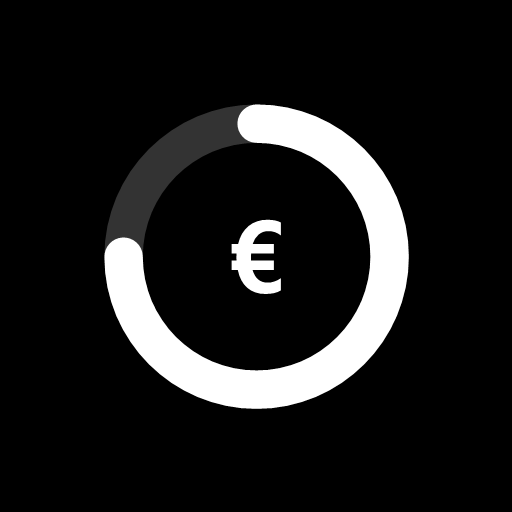
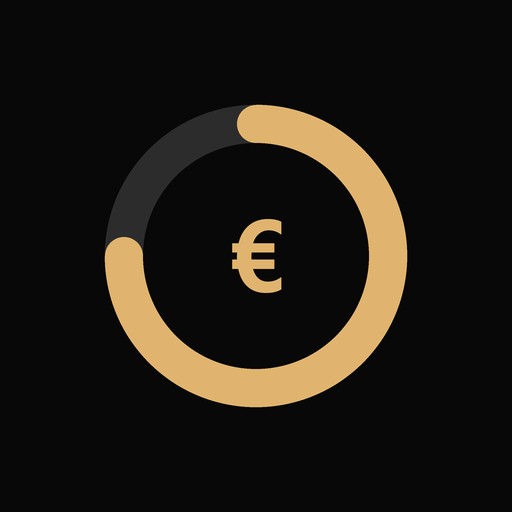
Tema negro y dorado, como el resto de apps, e icono dorado (v31)

Changed region(s): [[0.1875, 0.1875, 0.8125, 0.8125], [0.4375, 0.4062, 0.5625, 0.5938]]

diff --git a/css/styles.css b/css/styles.css
@@ -3,18 +3,19 @@
    ========================================================================== */
 
 :root {
-  --bg: #000000;
-  --card: #121212;
-  --card-2: #1f1f1f;
-  --card-3: #333333;
+  --bg: #080808;
+  --card: #0f0f0f;
+  --card-2: #1b1b1b;
+  --card-3: #2c2c2c;
   --sep: rgba(84, 84, 88, 0.55);
 
-  --text: #ffffff;
-  --text-2: #8e8e93;
-  --text-3: #636366;
+  --text: #ececec;
+  --text-2: #a8a8a8;
+  --text-3: #6b6b6b;
 
-  --accent: #ffffff;          /* interfaz: blanco sobre negro */
-  --accent-dim: rgba(255, 255, 255, 0.08);
+  --accent: #e0b46e;          /* dorado, como el resto de apps */
+  --accent-dim: rgba(224, 180, 110, 0.14);
+  --gold-text: #080808;       /* texto sobre dorado */
   --green: #32d74b;           /* solo ingresos / positivo */
   --red: #ff453a;
   --red-dim: rgba(255, 69, 58, 0.16);
@@ -32,6 +33,7 @@
 
   --font: -apple-system, BlinkMacSystemFont, "SF Pro Text", "Inter", system-ui, "Segoe UI", Roboto, sans-serif;
   --font-num: -apple-system, BlinkMacSystemFont, "SF Pro Display", "Inter", system-ui, sans-serif;
+  --serif: ui-serif, "New York", Georgia, "Times New Roman", serif;
 
   color-scheme: dark;
 }
@@ -214,7 +216,7 @@ input, select, textarea { font: inherit; color: inherit; }
   transition: color .15s;
 }
 .cat-ico { width: 40px; height: 40px; border-radius: 50%; background: var(--card-2); display: grid; place-items: center; color: var(--text); }
-.cat[aria-pressed="true"] .cat-ico { background: var(--text); color: #000; }
+.cat[aria-pressed="true"] .cat-ico { background: var(--accent); color: var(--gold-text); }
 .cat span:last-child { max-width: 100%; overflow: hidden; text-overflow: ellipsis; white-space: nowrap; padding: 0 2px; }
 .cat[aria-pressed="true"] { color: var(--text); }
 
@@ -223,7 +225,7 @@ input, select, textarea { font: inherit; color: inherit; }
   width: 100%; min-height: 52px; border-radius: var(--radius);
   font-size: 17px; font-weight: 600; background: var(--card-2);
 }
-.btn-primary { background: var(--accent); color: #000; }
+.btn-primary { background: var(--accent); color: var(--gold-text); }
 .btn-primary:disabled { background: var(--card-2); color: var(--text-3); }
 .btn-danger { color: var(--red); }
 .btn + .btn { margin-top: 10px; }
@@ -258,7 +260,7 @@ input, select, textarea { font: inherit; color: inherit; }
 .tab.active { color: var(--accent); }
 .tab-add-btn {
   width: 46px; height: 46px; border-radius: 50%; background: var(--accent);
-  display: grid; place-items: center; box-shadow: 0 4px 16px rgba(255, 255, 255, 0.15);
+  display: grid; place-items: center; box-shadow: 0 4px 16px rgba(224, 180, 110, 0.3);
 }
 .tab-add-btn svg { stroke: #000; stroke-width: 2.6; }
 
@@ -424,7 +426,7 @@ body.privacy .bar-val {
   content: ""; position: absolute; top: 2px; left: 2px; width: 27px; height: 27px; border-radius: 50%;
   background: #fff; transition: transform .2s; box-shadow: 0 2px 4px rgba(0,0,0,.3);
 }
-.switch:checked { background: var(--green); }
+.switch:checked { background: var(--accent); }
 .switch:checked::after { transform: translateX(20px); }
 
 /* ---------- #10 Gráficas --------------------------------------------- */
@@ -448,7 +450,7 @@ body.privacy .bar-val {
 .bar-chart { display: flex; align-items: flex-end; gap: 8px; }
 .bar-col { flex: 1; display: flex; flex-direction: column; align-items: center; justify-content: flex-end; height: 100%; min-width: 0; }
 .bar-fill { width: 100%; max-width: 34px; border-radius: 6px 6px 3px 3px; background: var(--card-3); }
-.bar-fill.hl { background: var(--text); }
+.bar-fill.hl { background: var(--accent); }
 .bar-val { font-size: 10.5px; color: var(--text-2); margin-bottom: 4px; white-space: nowrap; }
 .bar-label { font-size: 11.5px; color: var(--text-2); margin-top: 6px; text-transform: capitalize; }
 
@@ -529,7 +531,7 @@ button.ring-card:active { transform: scale(0.97); }
   transition: transform .1s, opacity .15s;
 }
 .stepper button svg { width: 15px; height: 15px; fill: none; stroke: currentColor; stroke-width: 2.4; stroke-linecap: round; }
-.stepper button:active:not(:disabled) { transform: scale(0.9); background: var(--text); color: #000; }
+.stepper button:active:not(:disabled) { transform: scale(0.9); background: var(--accent); color: var(--gold-text); }
 .stepper button:disabled { opacity: .3; }
 .stepper-val { min-width: 18px; text-align: center; font-size: 17px; font-weight: 700; font-variant-numeric: tabular-nums; }
 
@@ -539,7 +541,7 @@ button.ring-card:active { transform: scale(0.97); }
   padding: 6px 12px; border-radius: 999px; background: var(--card-2); color: var(--text-2);
   font-size: 14px; font-weight: 600; transition: background .15s, color .15s;
 }
-.pill-choice button[aria-pressed="true"] { background: var(--text); color: #000; }
+.pill-choice button[aria-pressed="true"] { background: var(--accent); color: var(--gold-text); }
 .note-preview { display: -webkit-box; -webkit-line-clamp: 2; -webkit-box-orient: vertical; overflow: hidden; white-space: normal; }
 .note-row .main { padding-right: 6px; }
 .note-date { font-size: 12.5px; font-weight: 500; align-self: flex-start; margin-top: 2px; }
@@ -614,7 +616,7 @@ body.privacy .map-box { filter: blur(10px); }
 /* ---------- v16: revisión de movimientos ------------------------------- */
 .review-banner {
   display: flex; align-items: center; gap: 12px; margin: -4px 0 14px; padding: 14px 16px;
-  border-radius: var(--radius-lg); background: var(--text); color: #000; font-weight: 600; font-size: 15px;
+  border-radius: var(--radius-lg); background: var(--accent); color: var(--gold-text); font-weight: 600; font-size: 15px;
 }
 .review-banner .main { flex: 1; min-width: 0; line-height: 1.3; }
 .review-banner .ico { width: 18px; height: 18px; flex: none; }
@@ -628,7 +630,7 @@ body.privacy .map-box { filter: blur(10px); }
 .review-meta { display: flex; flex-wrap: wrap; justify-content: center; gap: 6px; margin-bottom: 6px; }
 .review-meta .chip { font-size: 12.5px; padding: 4px 10px; display: inline-flex; align-items: center; gap: 4px; }
 .review-meta .chip .ico { width: 12px; height: 12px; }
-.review-missing { font-size: 12.5px; font-weight: 600; color: #000; background: var(--text); padding: 2px 8px; border-radius: 999px; letter-spacing: 0; }
+.review-missing { font-size: 12.5px; font-weight: 600; color: var(--gold-text); background: var(--accent); padding: 2px 8px; border-radius: 999px; letter-spacing: 0; }
 .review-actions { display: grid; grid-template-columns: 1fr 1.6fr; gap: 10px; }
 .review-actions .btn { max-width: none; margin: 0; }
 .review-actions .btn .ico { width: 18px; height: 18px; }
@@ -638,7 +640,7 @@ body.privacy .map-box { filter: blur(10px); }
 .review-done p { margin: 0 0 24px; }
 .review-done .btn { max-width: 260px; }
 .review-done-icon {
-  width: 84px; height: 84px; border-radius: 50%; background: var(--text); color: #000;
+  width: 84px; height: 84px; border-radius: 50%; background: var(--accent); color: var(--gold-text);
   display: grid; place-items: center; animation: pop .45s cubic-bezier(.2, 1.4, .4, 1);
 }
 .review-done-icon .ico { width: 42px; height: 42px; stroke-width: 2.4; }
@@ -683,7 +685,7 @@ body.privacy .pill-stat .value { filter: blur(16px); }
   display: grid; place-items: center; transition: background .15s, color .15s;
 }
 .icon-pick .ico { width: 18px; height: 18px; }
-.icon-pick.selected { background: var(--text); color: #000; }
+.icon-pick.selected { background: var(--accent); color: var(--gold-text); }
 .color-trail .ico { width: 16px; height: 16px; color: var(--text-3); }
 
 /* ---------- v23: revisar en lista -------------------------------------- */
@@ -696,7 +698,7 @@ button.left { background: none; color: var(--accent); font-size: 17px; justify-s
 
 /* ---------- Guía paso a paso (buzón + atajos) ------------------------ */
 .guide-progress { height: 4px; border-radius: 2px; background: var(--card-2); margin: 0 0 18px; overflow: hidden; }
-.guide-progress span { display: block; height: 100%; background: var(--text); transition: width .25s; }
+.guide-progress span { display: block; height: 100%; background: var(--accent); transition: width .25s; }
 .guide-kicker { font-size: 12px; font-weight: 600; text-transform: uppercase; letter-spacing: .06em; color: var(--text-2); margin: 0 4px 4px; }
 .guide-title { font-size: 26px; font-weight: 700; margin: 0 4px 16px; letter-spacing: -0.02em; }
 .guide-body { padding-bottom: 110px; }
@@ -773,3 +775,6 @@ button.left { background: none; color: var(--accent); font-size: 17px; justify-s
 .order-btns .icon-btn { width: 36px; height: 36px; font-size: 17px; }
 .order-btns .icon-btn:disabled { opacity: .25; }
 .block ~ .block > .hero:first-child { margin-top: 28px; }
+
+/* ---------- Tema dorado ------------------------------------------------ */
+.page-header h1, .guide-title, .sheet-title, .review-done h2 { font-family: var(--serif); font-weight: 600; letter-spacing: -0.02em; }

diff --git a/js/views/patrimonio.js b/js/views/patrimonio.js
@@ -107,7 +107,7 @@ export function render(root) {
           <span class="main">
             <div class="title">${esc(g.name)}</div>
             <div class="subtitle num">${money(g.saved, { decimals: false })} de ${money(g.target, { decimals: false })} · ${Math.round(p * 100)} %</div>
-            ${progress(p, { color: p >= 1 ? 'var(--green)' : 'var(--text)' })}
+            ${progress(p, { color: p >= 1 ? 'var(--green)' : 'var(--accent)' })}
           </span>
         </button>`;
       }).join('')}</div>`
@@ -565,7 +565,7 @@ function openGoal(id, onDone) {
     <div class="goal-hero">
       <div class="num" style="font-size:30px;font-weight:700">${money(g.saved)}</div>
       <div class="muted num">de ${money(g.target)} · faltan ${money(Math.max(0, g.target - g.saved))}</div>
-      ${progress(p, { color: p >= 1 ? 'var(--green)' : 'var(--text)' })}
+      ${progress(p, { color: p >= 1 ? 'var(--green)' : 'var(--accent)' })}
     </div>
     <p class="hint" style="margin:6px 0 4px">El dinero sigue en tus cuentas, pero se aparta de tu liquidez disponible
       (<span class="num">${money(n.disponible)}</span> ahora).</p>

diff --git a/js/charts.js b/js/charts.js
@@ -98,7 +98,7 @@ export function donut(segments, { size = 168, thickness = 22, centerLabel = 'Tot
  * Línea con área degradada (evolución temporal).
  * points: [{ x: 'YYYY-MM-DD', y: number }] ordenados por fecha.
  */
-export function lineChart(points, { height = 140, color = 'var(--text)' } = {}) {
+export function lineChart(points, { height = 140, color = 'var(--accent)' } = {}) {
   if (points.length < 2) {
     return `<div class="chart-empty muted">La gráfica aparecerá cuando haya al menos 2 días de histórico.</div>`;
   }
@@ -144,7 +144,7 @@ export function barChart(bars, { height = 110 } = {}) {
 }
 
 /** Barra de progreso horizontal (huchas, presupuestos). */
-export function progress(pct, { color = 'var(--text)' } = {}) {
+export function progress(pct, { color = 'var(--accent)' } = {}) {
   const p = Math.max(0, Math.min(1, pct || 0));
   return `<div class="progress"><span style="width:${(p * 100).toFixed(1)}%;background:${color}"></span></div>`;
 }

diff --git a/index.html b/index.html
@@ -3,7 +3,7 @@
 <head>
   <meta charset="utf-8">
   <meta name="viewport" content="width=device-width, initial-scale=1, viewport-fit=cover">
-  <meta name="theme-color" content="#000000">
+  <meta name="theme-color" content="#080808">
   <meta name="color-scheme" content="dark">
 
   <!-- iOS: pantalla completa al abrir desde "Añadir a pantalla de inicio" -->
@@ -16,7 +16,7 @@
   <link rel="apple-touch-icon" href="icons/apple-touch-icon.png">
   <link rel="icon" type="image/png" href="icons/icon-192.png">
   <link rel="manifest" href="manifest.json">
-  <link rel="stylesheet" href="css/styles.css?v=30">
+  <link rel="stylesheet" href="css/styles.css?v=31">
   <title>Finanzas</title>
 </head>
 <body>

diff --git a/js/ui.js b/js/ui.js
@@ -105,7 +105,7 @@ export function ring(pct) {
   const r = 26;
   const c = 2 * Math.PI * r;
   const p = Math.max(0, Math.min(pct, 1));
-  const stroke = pct > 1 ? 'var(--red)' : 'var(--text)';
+  const stroke = pct > 1 ? 'var(--red)' : 'var(--accent)';
   return `<svg class="ring" viewBox="0 0 64 64" aria-hidden="true">
     <circle class="ring-track" cx="32" cy="32" r="${r}"/>
     <circle class="ring-bar" cx="32" cy="32" r="${r}" stroke="${stroke}"

diff --git a/sw.js b/sw.js
@@ -1,12 +1,12 @@
 // Service worker: red primero (siempre la última versión) con copia offline de respaldo.
 // Sube CACHE_VERSION cada vez que publiques cambios para forzar la actualización.
-const CACHE_VERSION = 'finanzas-v30';
+const CACHE_VERSION = 'finanzas-v31';
 
 const APP_SHELL = [
   './',
   './index.html',
   './manifest.json',
-  './css/styles.css?v=30',
+  './css/styles.css?v=31',
   './js/app.js',
   './js/store.js',
   './js/ui.js',
